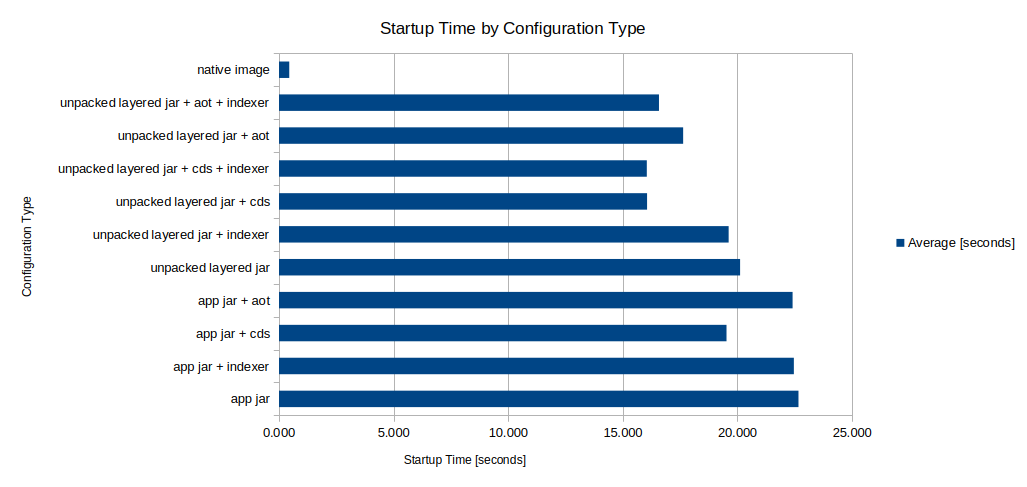
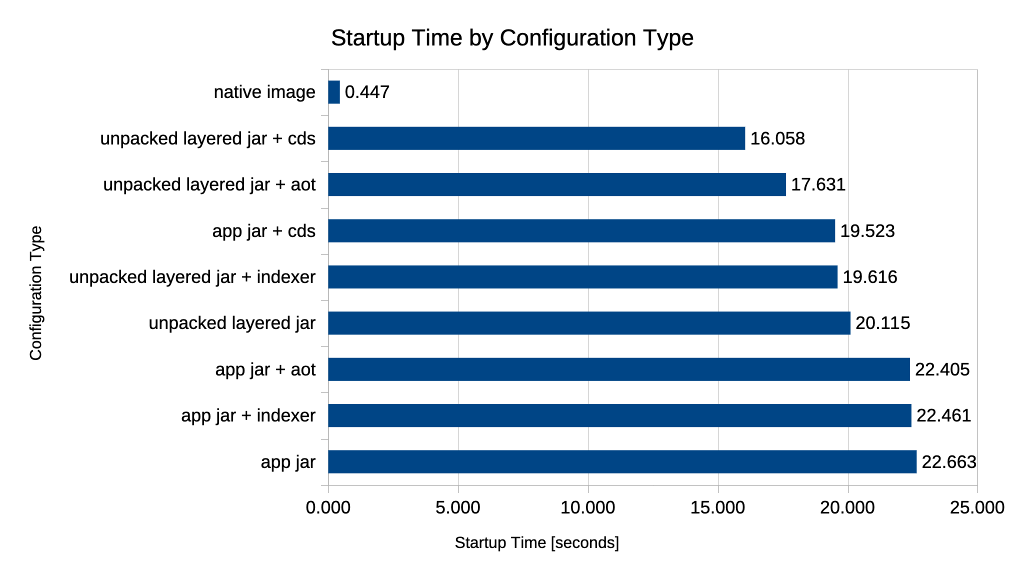
spring-boot-startup-times

Changed region(s): [[0.0, 0.0308, 0.9669, 0.9548], [0.8733, 0.4928, 0.9981, 0.5236], [0.9045, 0.8624, 0.9981, 0.8932]]

diff --git a/README.md b/README.md
@@ -72,12 +72,11 @@ Kubernetes Cluster.
 - using unpacked layered jar with CDS provides the best performance among JVM-based options, reducing startup time by
   almost 30%
 - using CDS without layered jars provides some improvement in startup time (almost 14%)
-- using Spring Indexer provides a small improvement in startup time (1% - 4%)
-- AOT does not provide as good improvements in startup time as CDS — this is surprising, as AOT is supposed to suppress
+- using Spring Indexer provides a small improvement in startup time (1% - 3%)
+- AOT does not provide as good improvements in startup time as CDS, CDS is faster by 6.95% for unpacked layer case and
+  faster by 12.72% for app jar case — this is surprising, as AOT is supposed to suppress
   CDS
 - using layered jars provides a noticeable improvement in startup time compared to a standard jar
-- combining multiple optimizations (e.g., unpacked layered jar + CDS) provides the best performance among
-  JVM-based options
 
 #### Raw data
 
